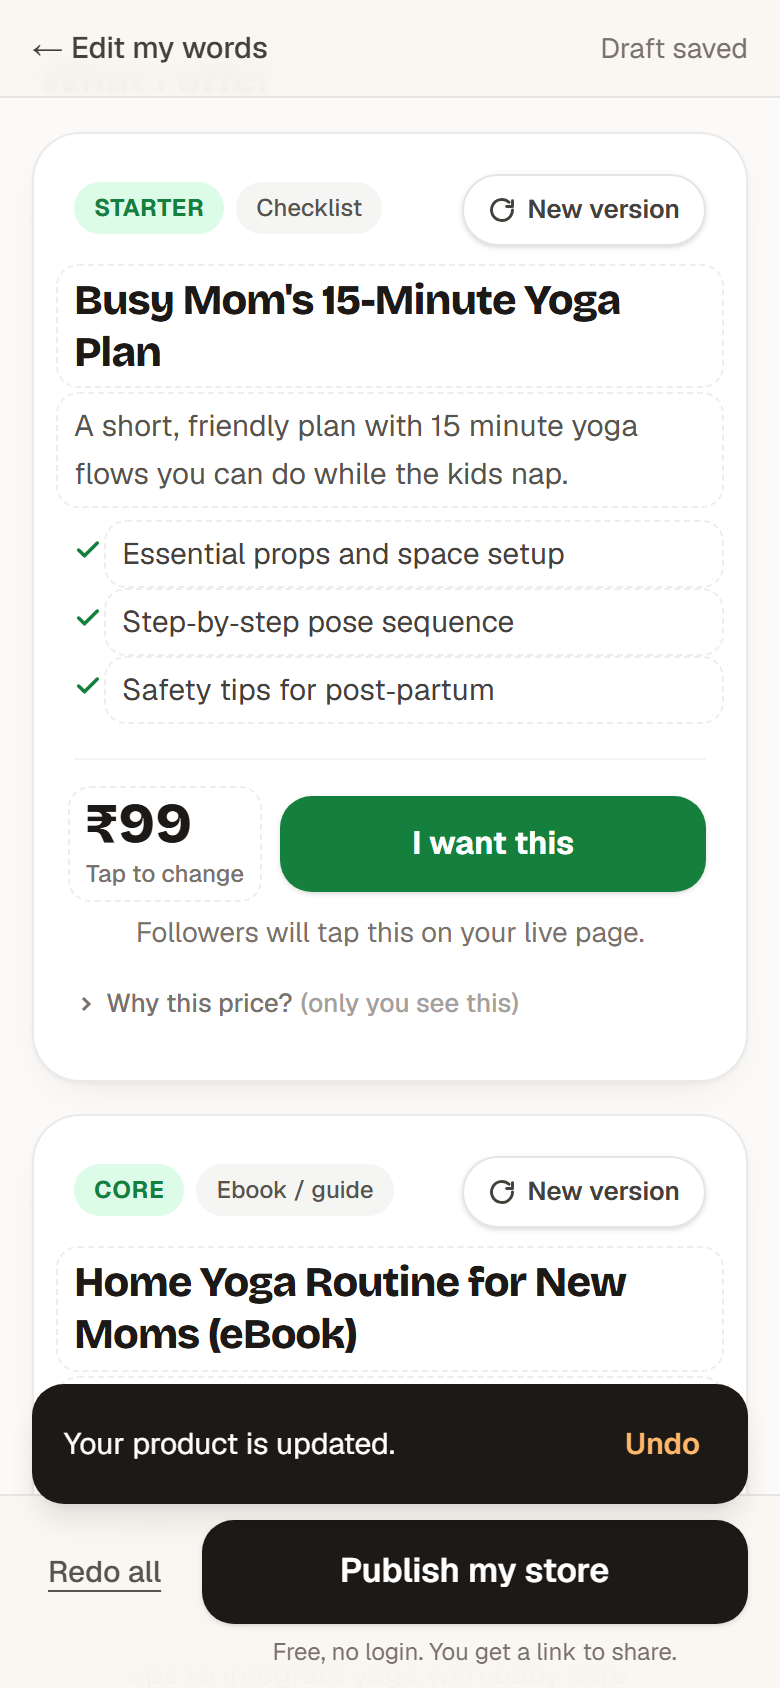
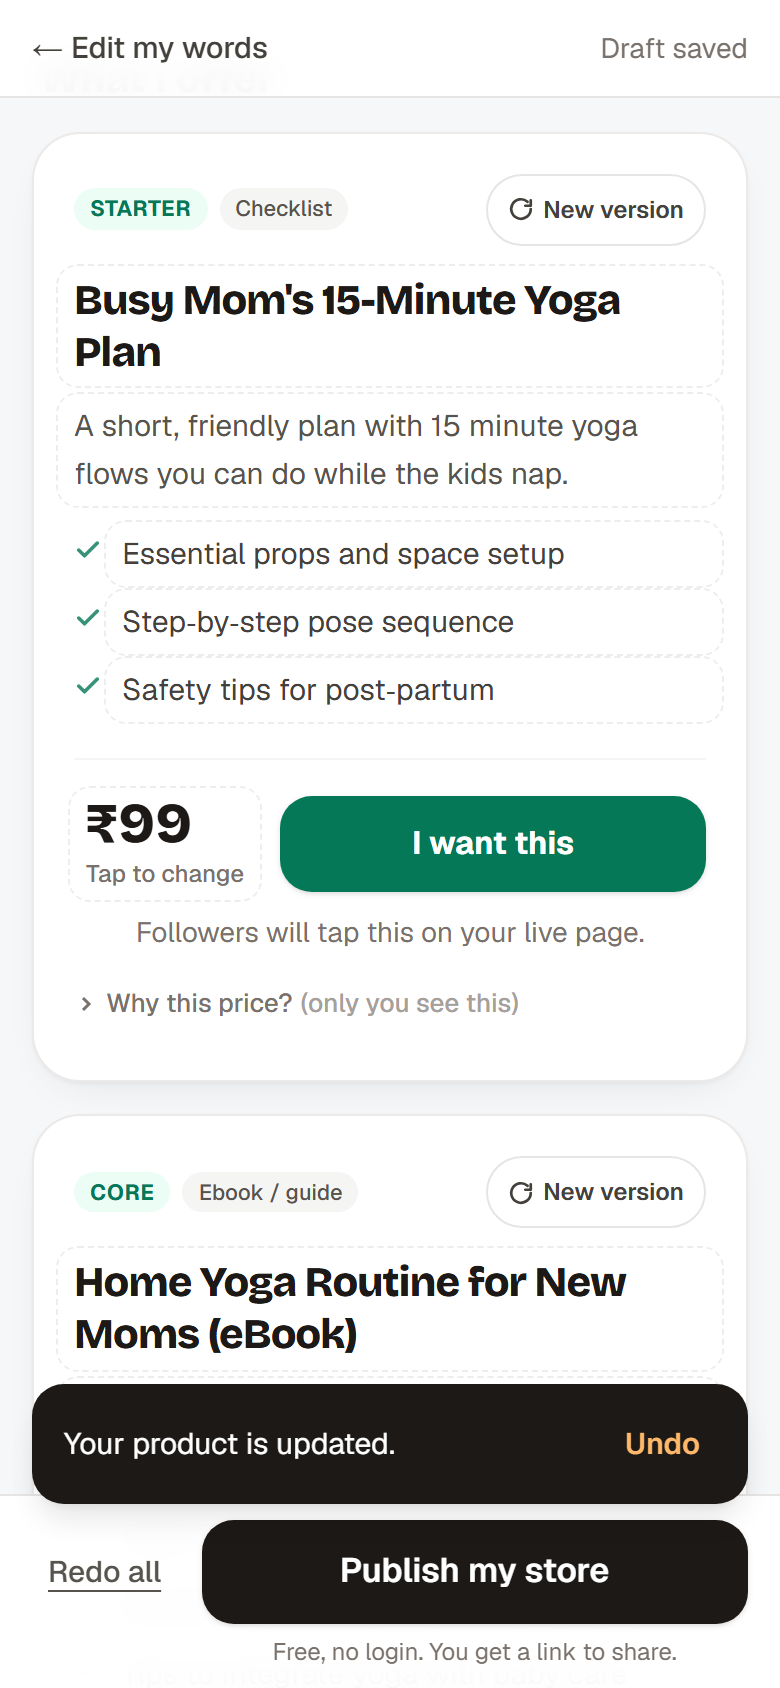
Final polish: white shell, cleaner store colours, real 404, publish warnings
- App shell white; niche accent only inside the store, richer accents,
  lighter tints, solid avatar, soft gradient band, one-line card header.
- "Back to my store" is a small link.
- Proxy returns a real 404 for missing stores.
- Gentle, non-blocking warnings at publish for the creator's own edits.
- npm run reset-stats (dry run unless --yes).

diff --git a/src/components/Storefront.tsx b/src/components/Storefront.tsx
@@ -43,11 +43,11 @@ export function Storefront(props: { store: Store; theme: Theme; edit?: EditHooks
     edit ? <Editable label={label} value={value} onChange={onChange} className={className} maxLength={max} singleLine={singleLine} /> : <p className={className}>{value}</p>;
 
   return (
-    <article style={themeVars(theme) as CSSProperties} className="min-h-full bg-[#fbfaf8] pb-8 text-stone-900">
+    <article style={themeVars(theme) as CSSProperties} className="min-h-full bg-[#f6f7f9] pb-8 text-stone-900">
       {/* Header band */}
       <div
         className="relative h-28 bg-store"
-        style={{ backgroundImage: "radial-gradient(circle at 20% 20%, rgb(255 255 255 / 0.18) 0 2px, transparent 3px), linear-gradient(135deg, var(--accent), var(--deep))", backgroundSize: "22px 22px, 100% 100%" }}
+        style={{ background: "linear-gradient(160deg, var(--accent) 0%, var(--deep) 100%)" }}
       >
         {edit && (
           <div className="absolute right-3 top-3">
@@ -58,7 +58,7 @@ export function Storefront(props: { store: Store; theme: Theme; edit?: EditHooks
 
       {/* Profile */}
       <section aria-label="About" className={`relative px-5 text-center ${edit?.busyBlock === "about" ? "opacity-50" : ""}`}>
-        <div className="mx-auto -mt-12 flex h-24 w-24 items-center justify-center rounded-full bg-store-tint font-[family-name:var(--font-display)] text-3xl font-extrabold text-store ring-4 ring-[#fbfaf8]" aria-hidden="true">
+        <div className="relative mx-auto -mt-12 flex h-24 w-24 items-center justify-center rounded-full bg-store font-[family-name:var(--font-display)] text-3xl font-extrabold text-white shadow-md ring-4 ring-[#f6f7f9]" aria-hidden="true">
           {initialsOf(c.display_name)}
         </div>
         <div className="mt-3">{text("name", c.display_name, (v) => edit?.onCreator({ display_name: v }), "text-center font-[family-name:var(--font-display)] text-[26px] font-extrabold leading-tight tracking-tight", 40, true)}</div>
@@ -97,10 +97,10 @@ function ProductCard(props: {
 
   return (
     <section aria-label={p.title} className={`rounded-3xl border border-stone-200/80 bg-white p-5 shadow-[0_1px_2px_rgb(0_0_0/0.04),0_8px_24px_-12px_rgb(0_0_0/0.12)] ${busy ? "opacity-50" : ""}`}>
-      <div className="flex items-start justify-between gap-2">
-        <div className="flex flex-wrap items-center gap-1.5 pt-1">
-          <span className="rounded-full bg-store-tint px-2.5 py-1 text-[12px] font-bold uppercase tracking-wide text-store">{TIER_LABEL[p.tier]}</span>
-          <span className="rounded-full bg-stone-100 px-2.5 py-1 text-[12px] font-medium text-stone-600">{FORMAT_LABEL[p.format]}</span>
+      <div className="flex items-center justify-between gap-2">
+        <div className="flex min-w-0 items-center gap-1.5 overflow-hidden whitespace-nowrap">
+          <span className="shrink-0 rounded-full bg-store-tint px-2 py-0.5 text-[11px] font-bold uppercase tracking-wide text-store">{TIER_LABEL[p.tier]}</span>
+          <span className="truncate rounded-full bg-stone-100 px-2 py-0.5 text-[11px] font-medium text-stone-600">{FORMAT_LABEL[p.format]}</span>
         </div>
         {edit && <RegenIcon label={`New version of ${p.title}`} onClick={() => edit.onRegen({ kind: "product", productId: p.id })} />}
       </div>
@@ -110,7 +110,7 @@ function ProductCard(props: {
       <ul className="mt-3 space-y-1.5">
         {p.whats_inside.map((w, j) => (
           <li key={j} className="flex items-start gap-2.5 text-[15px] leading-6 text-stone-700">
-            <svg className="mt-[5px] shrink-0 text-store" width="14" height="14" viewBox="0 0 24 24" fill="none" stroke="currentColor" strokeWidth="3" strokeLinecap="round" strokeLinejoin="round" aria-hidden="true">
+            <svg className="mt-[5px] shrink-0 text-store opacity-80" width="14" height="14" viewBox="0 0 24 24" fill="none" stroke="currentColor" strokeWidth="3" strokeLinecap="round" strokeLinejoin="round" aria-hidden="true">
               <path d="M20 6 9 17l-5-5" />
             </svg>
             <div className="min-w-0 flex-1">{text(`point ${j + 1}`, w, (v) => edit?.onProduct(p.id, { whats_inside: p.whats_inside.map((x, k) => (k === j ? v : x)) }), "", 80, true)}</div>

diff --git a/src/components/App.tsx b/src/components/App.tsx
@@ -7,6 +7,7 @@ import { normalizeHandle } from "@/lib/ui/handle";
 import { buildRationale } from "@/lib/ai/validators";
 import { creatorRationale } from "@/lib/ui/pricing";
 import { themeFor } from "@/lib/ui/theme";
+import { publishWarnings } from "@/lib/ui/publish-check";
 import { track } from "@/lib/ui/track";
 import { clearSaved, emptyInput, loadSaved, save, type PriceOverride, type Saved, type Screen } from "@/lib/ui/storage";
 import { ClarifyScreen } from "./ClarifyScreen";
@@ -16,7 +17,7 @@ import { GeneratingScreen } from "./GeneratingScreen";
 import { InputScreen, MAX_CHARS } from "./InputScreen";
 import { PublishedScreen } from "./PublishedScreen";
 import Link from "next/link";
-import { ConfirmSheet, Toast } from "./ui";
+import { ConfirmSheet, PrimaryButton, SecondaryButton, Sheet, Toast } from "./ui";
 
 type Undo = { label: string; storefront: Storefront; prices: Record<string, PriceOverride>; edited: boolean };
 
@@ -40,6 +41,7 @@ export default function App(props: { editSlug?: string }) {
   const [state, setState] = useState<Saved>(initial);
   const [interest, setInterest] = useState<Interest | null>(null);
   const [publishing, setPublishing] = useState(false);
+  const [warnings, setWarnings] = useState<string[] | null>(null);
   const [justPublished, setJustPublished] = useState(false);
   // The edit token comes from the link (#k=...) or, on the creator's own phone, from the saved draft.
   const [editToken] = useState<string | null>(() => {
@@ -322,7 +324,12 @@ export default function App(props: { editSlug?: string }) {
           published={state.published ? { slug: state.published.slug, hasChanges: state.edited } : null}
           publishing={publishing}
           wantCounts={interest?.counts}
-          onPublish={doPublish}
+          onPublish={() => {
+            // Gentle, non-blocking: the creator's own edits are checked against the same rules, then they decide.
+            const w = state.storefront ? publishWarnings(state.input, state.storefront) : [];
+            if (w.length) setWarnings(w);
+            else void doPublish();
+          }}
           onShowLive={() => go("published")}
           onPrice={setPrice}
           onRegenerate={regen}
@@ -342,6 +349,28 @@ export default function App(props: { editSlug?: string }) {
           onRefresh={refreshInterest}
         />
       )}
+
+      <Sheet open={warnings !== null} title="A few things to check" onClose={() => setWarnings(null)}>
+        <p className="text-[15px] leading-6 text-stone-600">Some of your edits break the rules we use for the AI&apos;s writing. It is your page, so you decide.</p>
+        <ul className="mt-3 space-y-2">
+          {(warnings ?? []).map((w) => (
+            <li key={w} className="rounded-xl bg-amber-50 px-3 py-2 text-[14px] leading-5 text-amber-950">
+              {w}
+            </li>
+          ))}
+        </ul>
+        <div className="mt-5 flex flex-col gap-3">
+          <SecondaryButton onClick={() => setWarnings(null)}>Let me fix them</SecondaryButton>
+          <PrimaryButton
+            onClick={() => {
+              setWarnings(null);
+              void doPublish();
+            }}
+          >
+            Publish anyway
+          </PrimaryButton>
+        </div>
+      </Sheet>
 
       <ConfirmSheet
         open={confirm === "redo"}

diff --git a/src/lib/ui/publish-check.ts b/src/lib/ui/publish-check.ts
@@ -1,0 +1,40 @@
+import type { CreatorInput, Storefront } from "../ai/schema";
+import { priceBand, validateStorefront, type Category } from "../ai/validators";
+
+/**
+ * Gentle checks at publish time, for the creator's OWN edits. Same rules the AI's copy has to pass,
+ * but here they only warn: it is the creator's page and the creator decides.
+ * Not checked: numbers and names (the creator may add real facts about themself).
+ */
+const WARN: Partial<Record<Category, string>> = {
+  hype_words: "sounds like hype or rules language",
+  safe_claims: "reads like a promise or advice we cannot back up",
+};
+
+function place(where: string, sf: Storefront): string {
+  const m = where.match(/^products\[(\d+)\](?:\.(\w+))?/);
+  if (m) {
+    const p = sf.products[Number(m[1])];
+    const field = m[2] === "title" ? "title" : m[2] === "description" ? "description" : m[2] === "whats_inside" ? "points" : m[2] === "price_inr" ? "price" : "";
+    return `${p ? `"${p.title}"` : "A product"}${field ? ` (${field})` : ""}`;
+  }
+  return { bio: "Your bio", tagline: "Your tagline", display_name: "Your name" }[where] ?? "Your page";
+}
+
+export function publishWarnings(input: CreatorInput, sf: Storefront): string[] {
+  const { errors } = validateStorefront(input, sf, "report", { setName: false });
+  const out = new Set<string>();
+  for (const e of errors) {
+    const what = WARN[e.category];
+    if (!what) continue;
+    const words = e.message.match(/(?:hype words: |\()([^)]+?)(?:\)|\. )/)?.[1];
+    out.add(`${place(e.where, sf)} ${what}${words ? `: "${words}"` : ""}.`);
+  }
+  // Prices: only warn when outside the guide (any price inside it is fine, even off our price-point list).
+  sf.products.forEach((p) => {
+    const band = priceBand(p.format, input.audience, sf.creator.niche_type);
+    if (p.price_inr < band.min || p.price_inr > band.max)
+      out.add(`"${p.title}" is priced at ₹${p.price_inr.toLocaleString("en-IN")}, outside our guide of ₹${band.min.toLocaleString("en-IN")}-₹${band.max.toLocaleString("en-IN")}.`);
+  });
+  return [...out].slice(0, 6);
+}

diff --git a/src/lib/ui/theme.ts b/src/lib/ui/theme.ts
@@ -10,14 +10,14 @@ export type ThemeName = "fitness" | "finance" | "cooking" | "design" | "exam" | 
 export type Theme = { name: ThemeName; accent: string; tint: string; deep: string };
 
 export const THEMES: Record<ThemeName, Theme> = {
-  fitness: { name: "fitness", accent: "#15803d", tint: "#dcfce7", deep: "#14532d" },
-  finance: { name: "finance", accent: "#1e3a8a", tint: "#dbeafe", deep: "#172554" },
-  cooking: { name: "cooking", accent: "#c2410c", tint: "#ffedd5", deep: "#7c2d12" },
-  design: { name: "design", accent: "#6d28d9", tint: "#ede9fe", deep: "#4c1d95" },
-  exam: { name: "exam", accent: "#1d4ed8", tint: "#dbeafe", deep: "#1e3a8a" },
-  astrology: { name: "astrology", accent: "#6b21a8", tint: "#f3e8ff", deep: "#3b0764" },
-  fashion: { name: "fashion", accent: "#be123c", tint: "#ffe4e6", deep: "#881337" },
-  default: { name: "default", accent: "#0f766e", tint: "#ccfbf1", deep: "#134e4a" },
+  fitness: { name: "fitness", accent: "#047857", tint: "#ecfdf5", deep: "#064e3b" },
+  finance: { name: "finance", accent: "#1e40af", tint: "#eff6ff", deep: "#1e2a6b" },
+  cooking: { name: "cooking", accent: "#c2410c", tint: "#fff7ed", deep: "#8a2c0a" },
+  design: { name: "design", accent: "#6d28d9", tint: "#f5f3ff", deep: "#4c1d95" },
+  exam: { name: "exam", accent: "#1d4ed8", tint: "#eff6ff", deep: "#1e3a8a" },
+  astrology: { name: "astrology", accent: "#6b21a8", tint: "#faf5ff", deep: "#3b0764" },
+  fashion: { name: "fashion", accent: "#be123c", tint: "#fff1f2", deep: "#881337" },
+  default: { name: "default", accent: "#0f766e", tint: "#f0fdfa", deep: "#134e4a" },
 };
 
 // Checked in this order; the first match wins.

diff --git a/src/lib/ui/publish-check.test.ts b/src/lib/ui/publish-check.test.ts
@@ -1,0 +1,31 @@
+import { describe, expect, it } from "vitest";
+import fx from "../../../tests/ui/fixture.json";
+import type { CreatorInput, Storefront } from "../ai/schema";
+import { publishWarnings } from "./publish-check";
+
+const input = fx.input as CreatorInput;
+const store = () => structuredClone(fx.storefront) as Storefront;
+
+describe("publish warnings for the creator's own edits", () => {
+  it("is quiet for a clean page", () => {
+    const s = store();
+    s.products[1].whats_inside = s.products[1].whats_inside.map((w) => w.replace(" with photos", ""));
+    expect(publishWarnings(input, s)).toEqual([]);
+  });
+  it("warns on hype, unsafe claims and a price far outside the guide, never blocks", () => {
+    const s = store();
+    s.creator.tagline = "The ultimate yoga plan";
+    s.products[0].description = "Guaranteed weight loss in a week for new moms.";
+    s.products[1].price_inr = 4999;
+    const w = publishWarnings(input, s);
+    expect(w.some((x) => x.startsWith("Your tagline") && x.includes("ultimate"))).toBe(true);
+    expect(w.some((x) => x.includes("promise or advice"))).toBe(true);
+    expect(w.some((x) => x.includes("₹4,999") && x.includes("outside our guide"))).toBe(true);
+  });
+  it("allows any price inside the guide, even one we would not pick", () => {
+    const s = store();
+    s.products[1].price_inr = 350; // inside 199-499, not on our price-point list
+    s.products[1].whats_inside = s.products[1].whats_inside.map((w) => w.replace(" with photos", ""));
+    expect(publishWarnings(input, s)).toEqual([]);
+  });
+});

diff --git a/src/components/ui.tsx b/src/components/ui.tsx
@@ -170,11 +170,11 @@ export function RegenIcon(props: { onClick: () => void; label: string; onDark?: 
       type="button"
       onClick={props.onClick}
       aria-label={props.label}
-      className={`flex min-h-[36px] items-center gap-1.5 rounded-full px-3 text-[13px] font-semibold shadow-sm transition active:scale-95 ${
-        props.onDark ? "bg-white/90 text-store-deep" : "border border-stone-200 bg-white text-stone-700"
+      className={`flex min-h-[36px] shrink-0 items-center gap-1 whitespace-nowrap rounded-full px-2.5 text-[12px] font-semibold transition active:scale-95 ${
+        props.onDark ? "bg-white/90 text-store-deep shadow-sm" : "border border-stone-200 bg-white text-stone-700"
       }`}
     >
-      <svg width="14" height="14" viewBox="0 0 24 24" fill="none" stroke="currentColor" strokeWidth="2.5" strokeLinecap="round" strokeLinejoin="round" aria-hidden="true">
+      <svg width="13" height="13" viewBox="0 0 24 24" fill="none" stroke="currentColor" strokeWidth="2.5" strokeLinecap="round" strokeLinejoin="round" aria-hidden="true">
         <path d="M21 12a9 9 0 1 1-3-6.7" />
         <path d="M21 4v5h-5" />
       </svg>

diff --git a/src/proxy.ts b/src/proxy.ts
@@ -1,0 +1,25 @@
+import { NextResponse, type NextRequest } from "next/server";
+import { redis } from "@/lib/redis";
+
+// Same pattern as SLUG_RE in lib/stores.ts (kept inline so the proxy stays small).
+const SLUG_RE = /^[a-z0-9][a-z0-9-]{2,40}$/;
+
+/**
+ * A missing store must answer with a real 404. The public page streams (so its status is fixed at 200
+ * before the data loads), so the check happens here, before the page starts: one EXISTS call per visit.
+ */
+export const config = { matcher: "/s/:slug" };
+
+export async function proxy(req: NextRequest) {
+  const slug = req.nextUrl.pathname.split("/")[2] ?? "";
+  let exists = SLUG_RE.test(slug);
+  if (exists && redis) {
+    try {
+      exists = (await redis.exists(`fs:store:${slug}`)) === 1;
+    } catch {
+      return NextResponse.next(); // if Redis is down, let the page handle it
+    }
+  }
+  if (!exists) return NextResponse.rewrite(new URL("/store-missing", req.url), { status: 404 });
+  return NextResponse.next();
+}

diff --git a/src/components/GeneratingScreen.tsx b/src/components/GeneratingScreen.tsx
@@ -38,9 +38,9 @@ export function GeneratingScreen(props: { theme: Theme; onCancel: () => void }) 
       </div>
 
       <div className="frame-lg">
-        <div className="phone-scroll bg-[#fbfaf8]">
+        <div className="phone-scroll bg-[#f6f7f9]">
           <div className="h-28" style={{ background: "linear-gradient(135deg, var(--accent), var(--deep))", opacity: 0.85 }} />
-          <div className="relative z-10 mx-auto -mt-12 h-24 w-24 rounded-full bg-store-tint ring-4 ring-[#fbfaf8]" />
+          <div className="relative z-10 mx-auto -mt-12 h-24 w-24 rounded-full bg-store opacity-30 ring-4 ring-[#f6f7f9]" />
           <div className="flex flex-col items-center px-5">
             <div className="mt-4 h-7 w-44 animate-pulse rounded-lg bg-store-tint" />
             <div className="skeleton mt-2 h-4 w-60" />

diff --git a/src/components/InputScreen.tsx b/src/components/InputScreen.tsx
@@ -89,8 +89,8 @@ export function InputScreen(props: {
           <p className="mt-3 text-[17px] leading-6 text-stone-600 lg:text-[19px]">Your bio, 3 products and prices, in under a minute.</p>
 
           {props.hasStore && (
-            <button type="button" onClick={props.onBackToStore} className="mt-5 flex min-h-[48px] w-full items-center justify-between rounded-2xl bg-stone-900 px-4 text-left text-[15px] font-semibold text-white">
-              Back to my store <span aria-hidden="true">→</span>
+            <button type="button" onClick={props.onBackToStore} className="mt-3 min-h-[44px] text-[15px] font-semibold text-stone-900 underline underline-offset-4">
+              Back to my store →
             </button>
           )}
 

diff --git a/src/app/not-found.tsx b/src/app/not-found.tsx
@@ -1,13 +1,5 @@
-import Link from "next/link";
+import { MissingStore } from "@/components/MissingStore";
 
 export default function NotFound() {
-  return (
-    <main className="mx-auto flex min-h-dvh max-w-[480px] flex-col justify-center px-6 text-center">
-      <h1 className="font-[family-name:var(--font-display)] text-[26px] font-extrabold tracking-tight">This store is not here</h1>
-      <p className="mt-2 text-base leading-6 text-stone-600">The link may be mistyped, or the store was never published.</p>
-      <Link href="/" className="mx-auto mt-6 flex min-h-[48px] items-center rounded-2xl bg-stone-900 px-6 font-semibold text-white">
-        Make your own store
-      </Link>
-    </main>
-  );
+  return <MissingStore />;
 }

diff --git a/src/components/Editor.tsx b/src/components/Editor.tsx
@@ -125,7 +125,7 @@ export function Editor(props: {
       {/* The store: full width on phones, a phone frame on desktop */}
       <div className="frame-lg">
         <div className="phone-scroll">
-          <p className="mx-4 mt-3 rounded-xl bg-white px-3 py-2 text-[14px] text-stone-600 shadow-sm lg:hidden">Tap any text to change it. Tap <b>New version</b> for a fresh take on a block.</p>
+          <p className="mx-4 my-3 rounded-xl border border-stone-200 bg-white px-3 py-2 text-[14px] text-stone-600 lg:hidden">Tap any text to change it. Tap <b>New version</b> for a fresh take on a block.</p>
           <Storefront store={sf} theme={theme} edit={hooks} wantCounts={props.wantCounts} />
         </div>
       </div>

diff --git a/src/components/MissingStore.tsx b/src/components/MissingStore.tsx
@@ -1,0 +1,13 @@
+import Link from "next/link";
+
+export function MissingStore() {
+  return (
+    <main className="mx-auto flex min-h-dvh max-w-[480px] flex-col justify-center px-6 text-center">
+      <h1 className="font-[family-name:var(--font-display)] text-[26px] font-extrabold tracking-tight">This store is not here</h1>
+      <p className="mt-2 text-base leading-6 text-stone-600">The link may be mistyped, or the store was never published.</p>
+      <Link href="/" className="mx-auto mt-6 flex min-h-[48px] items-center rounded-2xl bg-stone-900 px-6 font-semibold text-white">
+        Make your own store
+      </Link>
+    </main>
+  );
+}
